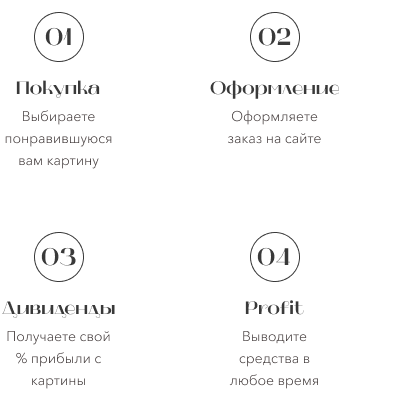
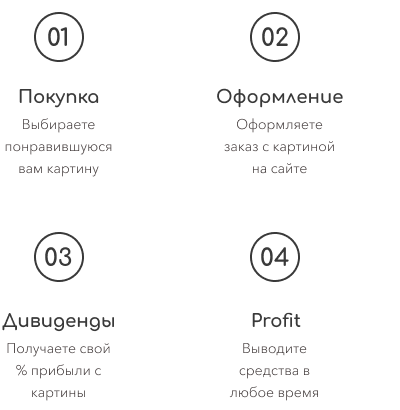
page fixes

diff --git a/src/pages/Gallery.vue b/src/pages/Gallery.vue
@@ -93,7 +93,7 @@ export default {
 
   },
   async beforeMount() {
-    const resp = await this.$api.get('/api/item/get?type=index')
+    const resp = await this.$api.get('/api/item/get?type=all')
     this.gallerySlides = resp.data
   },
 }

diff --git a/src/css/app.sass b/src/css/app.sass
@@ -66,7 +66,7 @@ section
   font-size: 48px
   line-height: 58px
   margin-top: 0
-  font-family: 'Mak', sans-serif
+  font-family: 'Comfortaa', cursive
   color: $dark
 .img
   max-width: 100%
